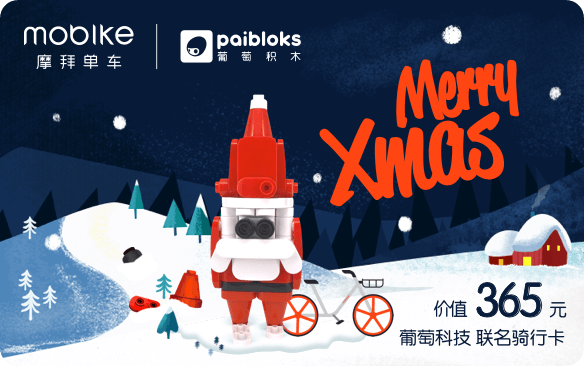
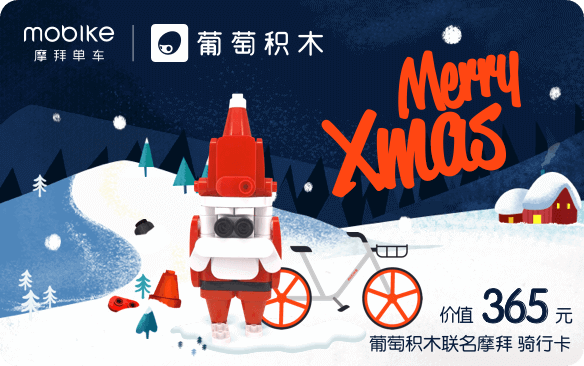
commit

diff --git a/scss/snow.scss b/scss/snow.scss
@@ -95,13 +95,13 @@ a:focus {
     background-size: cover;
     position: absolute;
     &>.santa-claus {
-        width: 34vw;
-        height: 72vw;
+        width: 37vw;
+        height: 80vw;
         background: url('../images/snow/santa_claus_no_hat.png') no-repeat;
         background-size: contain;
         position: absolute;
-        left: 36vw;
-        top: 18vw;
+        left: 27vw;
+        top: 22vw;
         &.done {
             background: url('../images/snow/santa_claus_with_hat.png') no-repeat;
             background-size: contain;

diff --git a/css/snow.css b/css/snow.css
@@ -76,13 +76,13 @@ a:focus {
   background-size: cover;
   position: absolute; }
   .htmleaf-container > .santa-claus {
-    width: 34vw;
-    height: 72vw;
+    width: 37vw;
+    height: 80vw;
     background: url("../images/snow/santa_claus_no_hat.png") no-repeat;
     background-size: contain;
     position: absolute;
-    left: 36vw;
-    top: 18vw; }
+    left: 27vw;
+    top: 22vw; }
     .htmleaf-container > .santa-claus.done {
       background: url("../images/snow/santa_claus_with_hat.png") no-repeat;
       background-size: contain; }

diff --git a/index.html b/index.html
@@ -9,6 +9,7 @@
     <link rel="stylesheet" href="./css/index.css">
     <link rel="stylesheet" href="./css/animate.css">
     <link rel="preload" href="./images/loading/6lian1.jpg" as="image">
+    <script src="./js/baidu_static.js"></script>
     <script src="https://res.wx.qq.com/open/js/jweixin-1.0.0.js"></script>
     <script src="https://static.mobike.com/cdn/jsbridge/1.1.1/jsbridge.js"></script>
 </head>

diff --git a/html/activity.html b/html/activity.html
@@ -9,6 +9,7 @@
     <title>葡萄送大礼，一“骑”去芬兰</title>
     <link rel="stylesheet" href="../css/public.css">
     <link rel="stylesheet" href="../css/activity.css">
+    <script src="../js/baidu_static.js"></script>
     <script src="https://res.wx.qq.com/open/js/jweixin-1.0.0.js"></script>
     <script src="https://static.mobike.com/cdn/jsbridge/1.1.1/jsbridge.js"></script>
 </head>

diff --git a/scss/share.scss b/scss/share.scss
@@ -27,7 +27,7 @@ body {
 .container {
     position: absolute;
     z-index: 100;
-    top: 99.5vw;
+    top: 110vw;
     &>.check-code {
         width: 100vw;
         height: 52vw;

diff --git a/css/share.css b/css/share.css
@@ -23,7 +23,7 @@ body {
 .container {
   position: absolute;
   z-index: 100;
-  top: 99.5vw; }
+  top: 110vw; }
   .container > .check-code {
     width: 100vw;
     height: 52vw;
